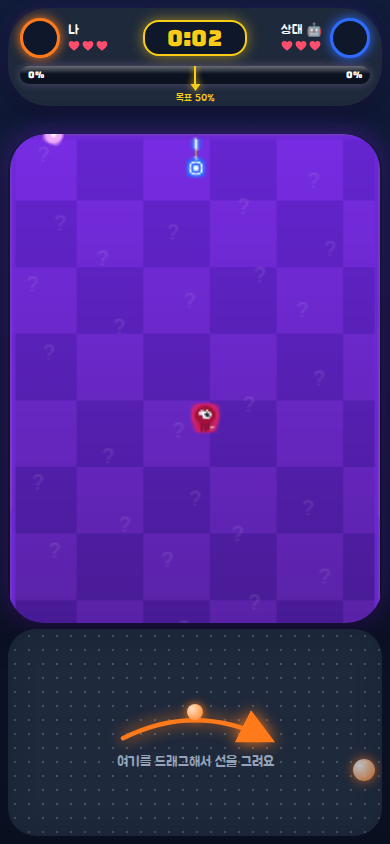
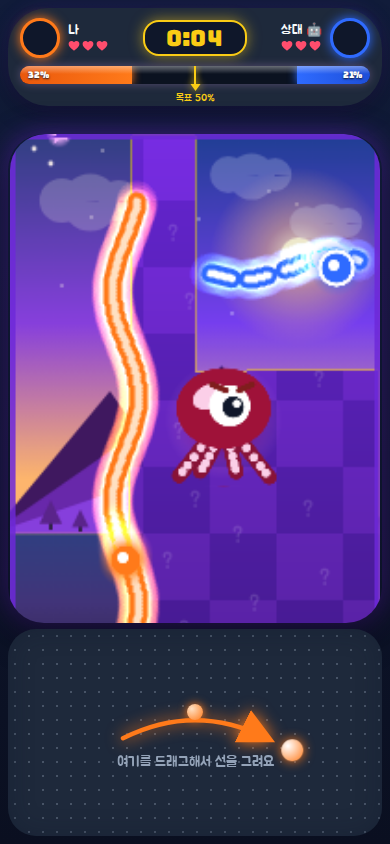
fix(client): enlarge 꾸물이 and recapture mockup A shots
Boss sprite is a quarter of the board with a round glow, and the
390x844 match/cut/hit captures show 32%/21% revealed dusk art,
thick neon trails, and visible orbs.

diff --git a/packages/client/src/main.ts b/packages/client/src/main.ts
@@ -30,11 +30,11 @@ import {
 
 const BOARD_W = GRID_WIDTH;
 const BOARD_H = GRID_HEIGHT;
-const AFTERIMAGES = 10;
+const AFTERIMAGES = 6;
 const KK_TEX = 256;
-/** 꾸물이 is ~1/4 of the board width. */
-const KK_CELLS = BOARD_W / 4;
-const ORB_CELLS = 26;
+/** Sprite includes glow padding; visible body+tentacles land near 1/4 board. */
+const KK_CELLS = 64;
+const ORB_CELLS = 30;
 const ORB_TEX = 128;
 
 function seedMidMatch(state: MatchState): void {
@@ -818,7 +818,7 @@ class GameScene extends Phaser.Scene {
         }
       }
       for (let k = 1; k <= AFTERIMAGES; k++) {
-        const idx = Math.max(0, best - k * 4);
+        const idx = Math.max(0, best - k * 2);
         pts.push(guide[idx]);
       }
     } else {
